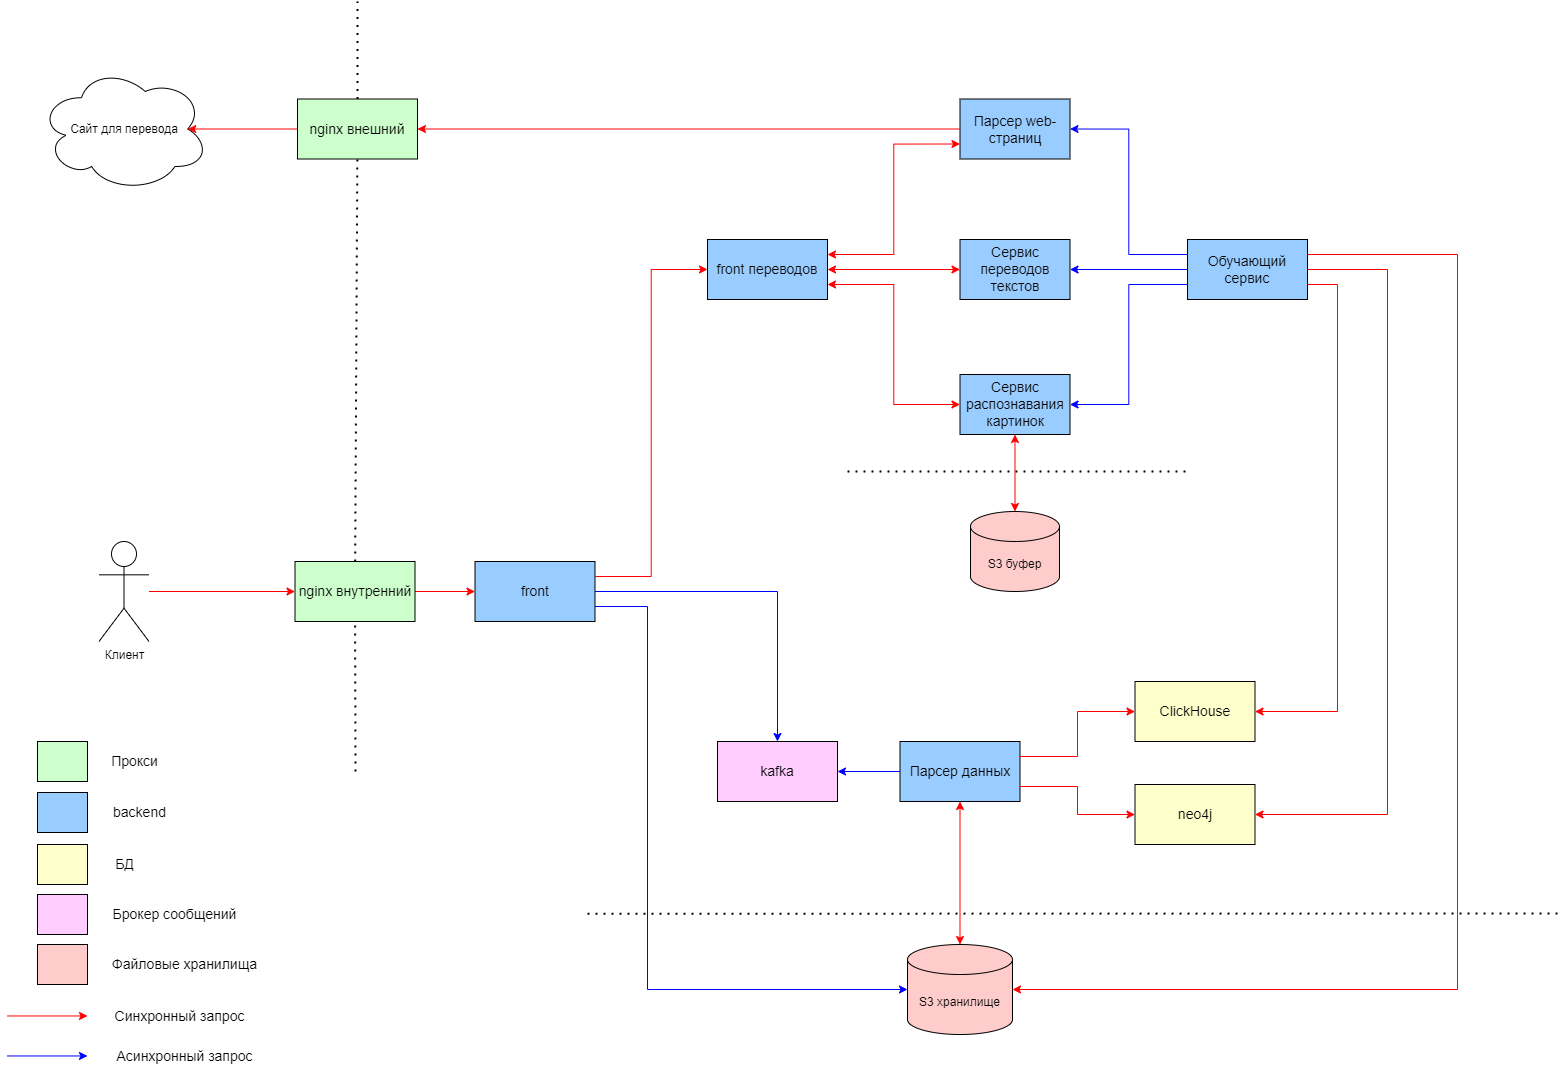
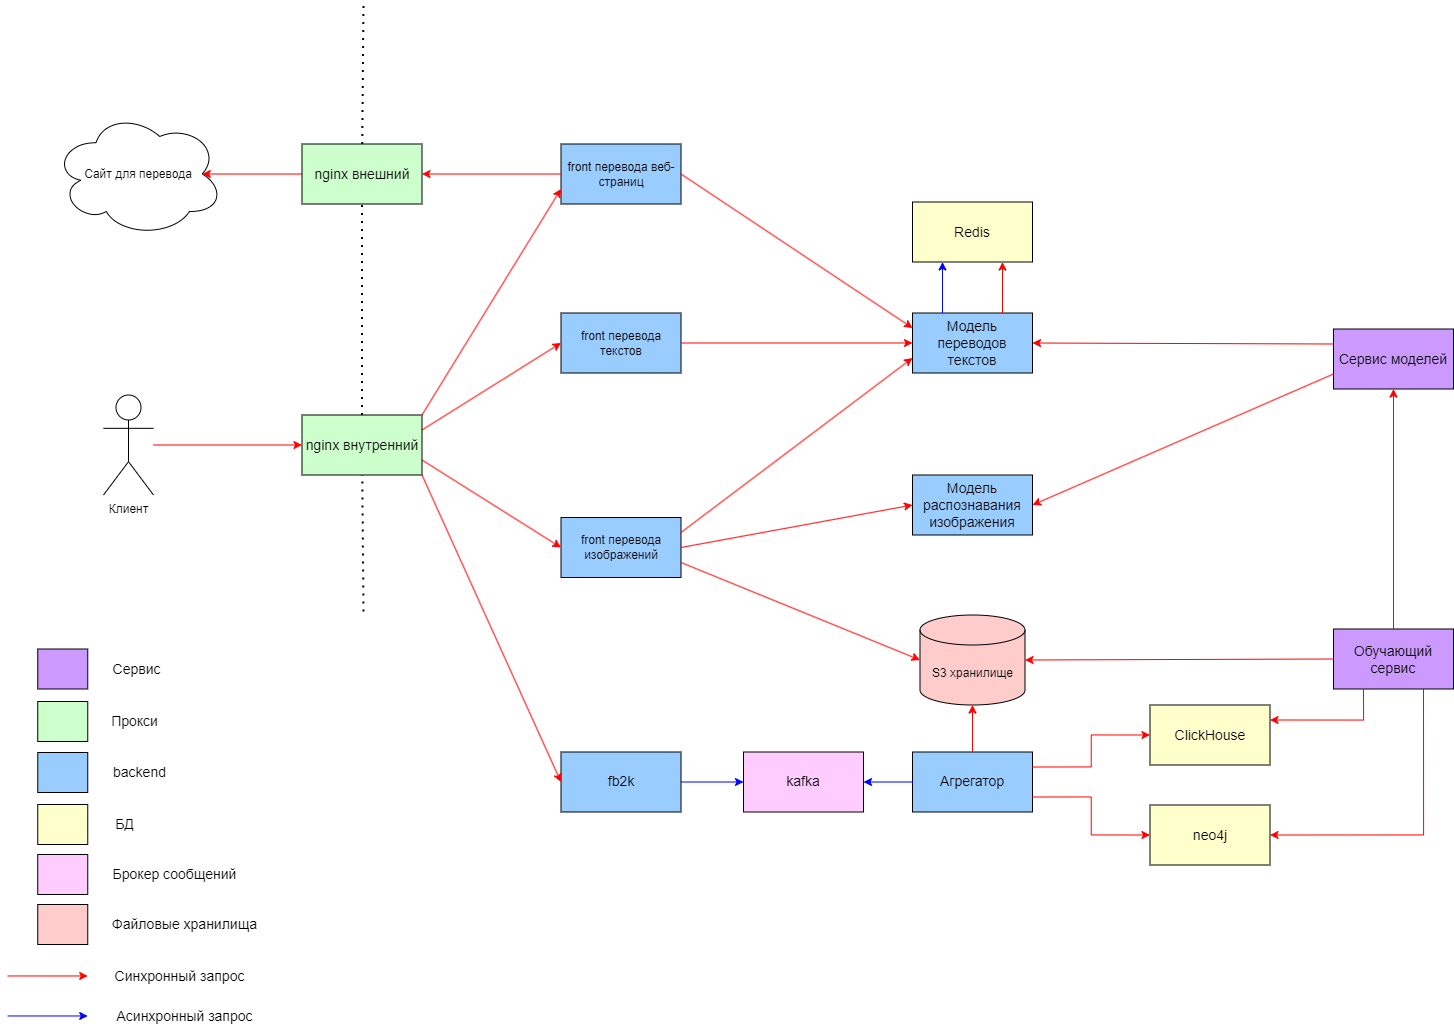
Обновил схему проекта

diff --git a/README.md b/README.md
@@ -348,12 +348,12 @@ Google-переводчик поддерживает 133 языка на 2022 г
 
 ![Схема проекта](img/projectSchema.png)
 
-Nginx является обратным прокси-сервером, обеспечивающим доступ к сервису и выполняющим ssl-терминацию и локальную балансировку нагрузки, которая работает по алгоритму round-robin. Трафик же к экземплярам nginx доставляет система глобальной балансировки, организованной на основе BGP-anycast.
+- Внутренний nginx является обратным прокси-сервером, обеспечивающим доступ к сервису и выполняющим ssl-терминацию и локальную балансировку нагрузки, которая работает по алгоритму round-robin. Трафик же к экземплярам nginx доставляет система глобальной балансировки, организованной на основе BGP-anycast. Внешний nginx работает по принципу прямого прокси-сервера и служит для безопасного доступа к внешним ресурсам.
 
-Входной точкой в сервис является микросервис front. Данный микросервис занимается сбором статистики и данных пользовательских запросов для дальнейшего обучения моделей. И исходный, и переведенный тексты, а также изображения, front асинхронно отправляет в kafka и на S3.
+- Для каждого типа перевода - перевод текста, перевод изображения, перевод веб-страницы - существует свой frontend сервер, который агрегирует результаты ответов от различных моделей. Помимо этого, данные frontend'ы балансируют нагрузку до моделей по алгоритму round-robin.
 
-После этого пользовательский запрос попадает в front переводов, который агрегирует результаты работы трех сервисов - парсера страниц, сервиса переводов и сервиса распознавания картинок - чтобы затем отдать собранный воедино ответ обратно в сервис front, затем в nginx и далее до конечного пользователя. Здесь важно отметить наличие S3-буфера у сервиса распознавания изображений. Он был добавлен для отказоустойчивости, так как сервису переводов небходимо хранить промежуточные изображения для распознавания.
+- Для сбора результатов перевода и обратной связи имеется отдельный микросервис fb2k, который складывает исходный и переведенный тексты, ссылки на изображения и отправляет эти данные в kafka.
 
-Данные из kafka данные будет доставать микросервис парсинга данных, который будет предобрабатывать данные и синхронизировать данные с S3 и класть эти данные в ClickHouse и neo4j.
+- Микросервис "Агрегатор" проверяет целостность данных, полученных из kafka: проверяет наличие соответствующих изображений в облаке и удаляет возможные дубликаты сообщений из kafka. После проверки он сохраняет результаты в СУБД ClickHouse и neo4j для дальнейшей аналитики.
 
-Кроме того, есть микросервис по обучению и замене моделей. Он берет данные из СУБД и с их помощью обучает модели и обновляет их на сервисах переводов и распознавания изображений.
+- Для работы с моделями существует два служебных сервиса: обучающий сервис и сервис моделей. Первый обучает новые модели на основе собранных данных. Второй же служит для хранения различных версий моделей и их выкатки в работу.
